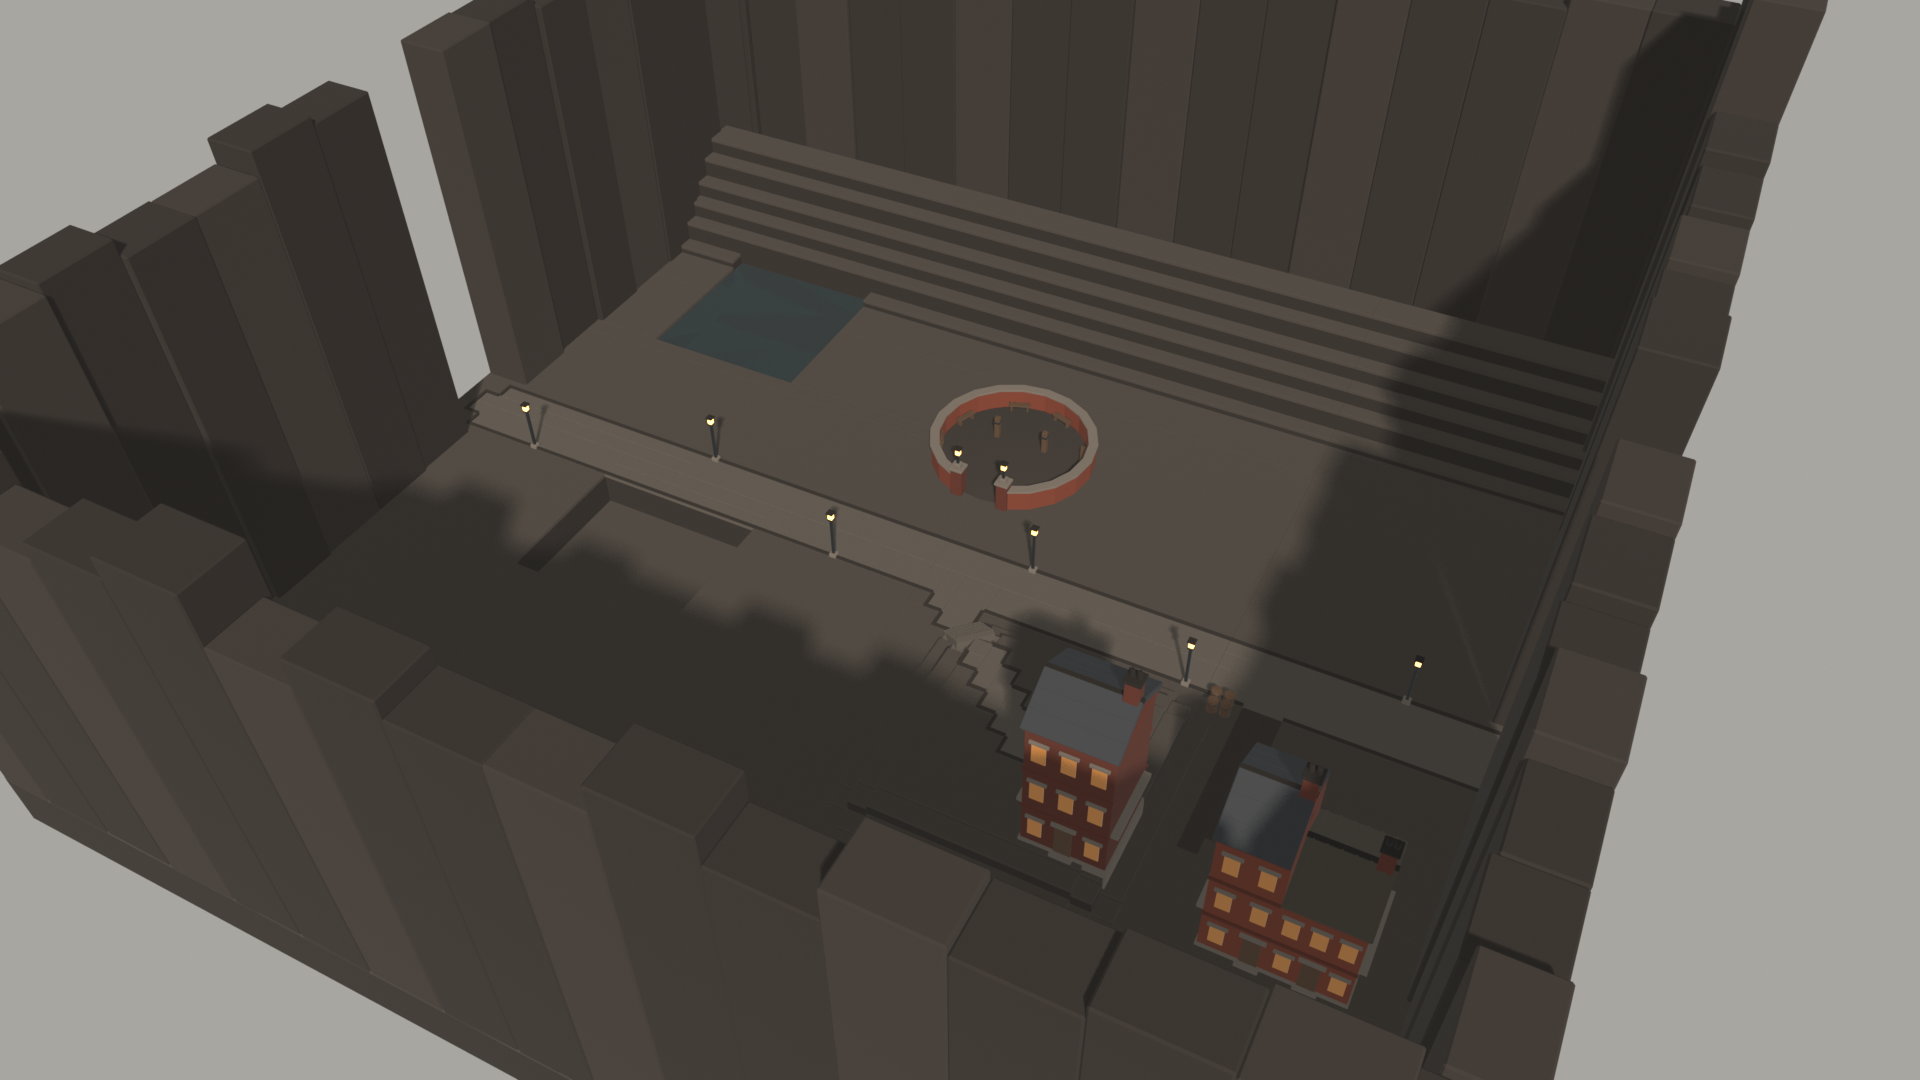
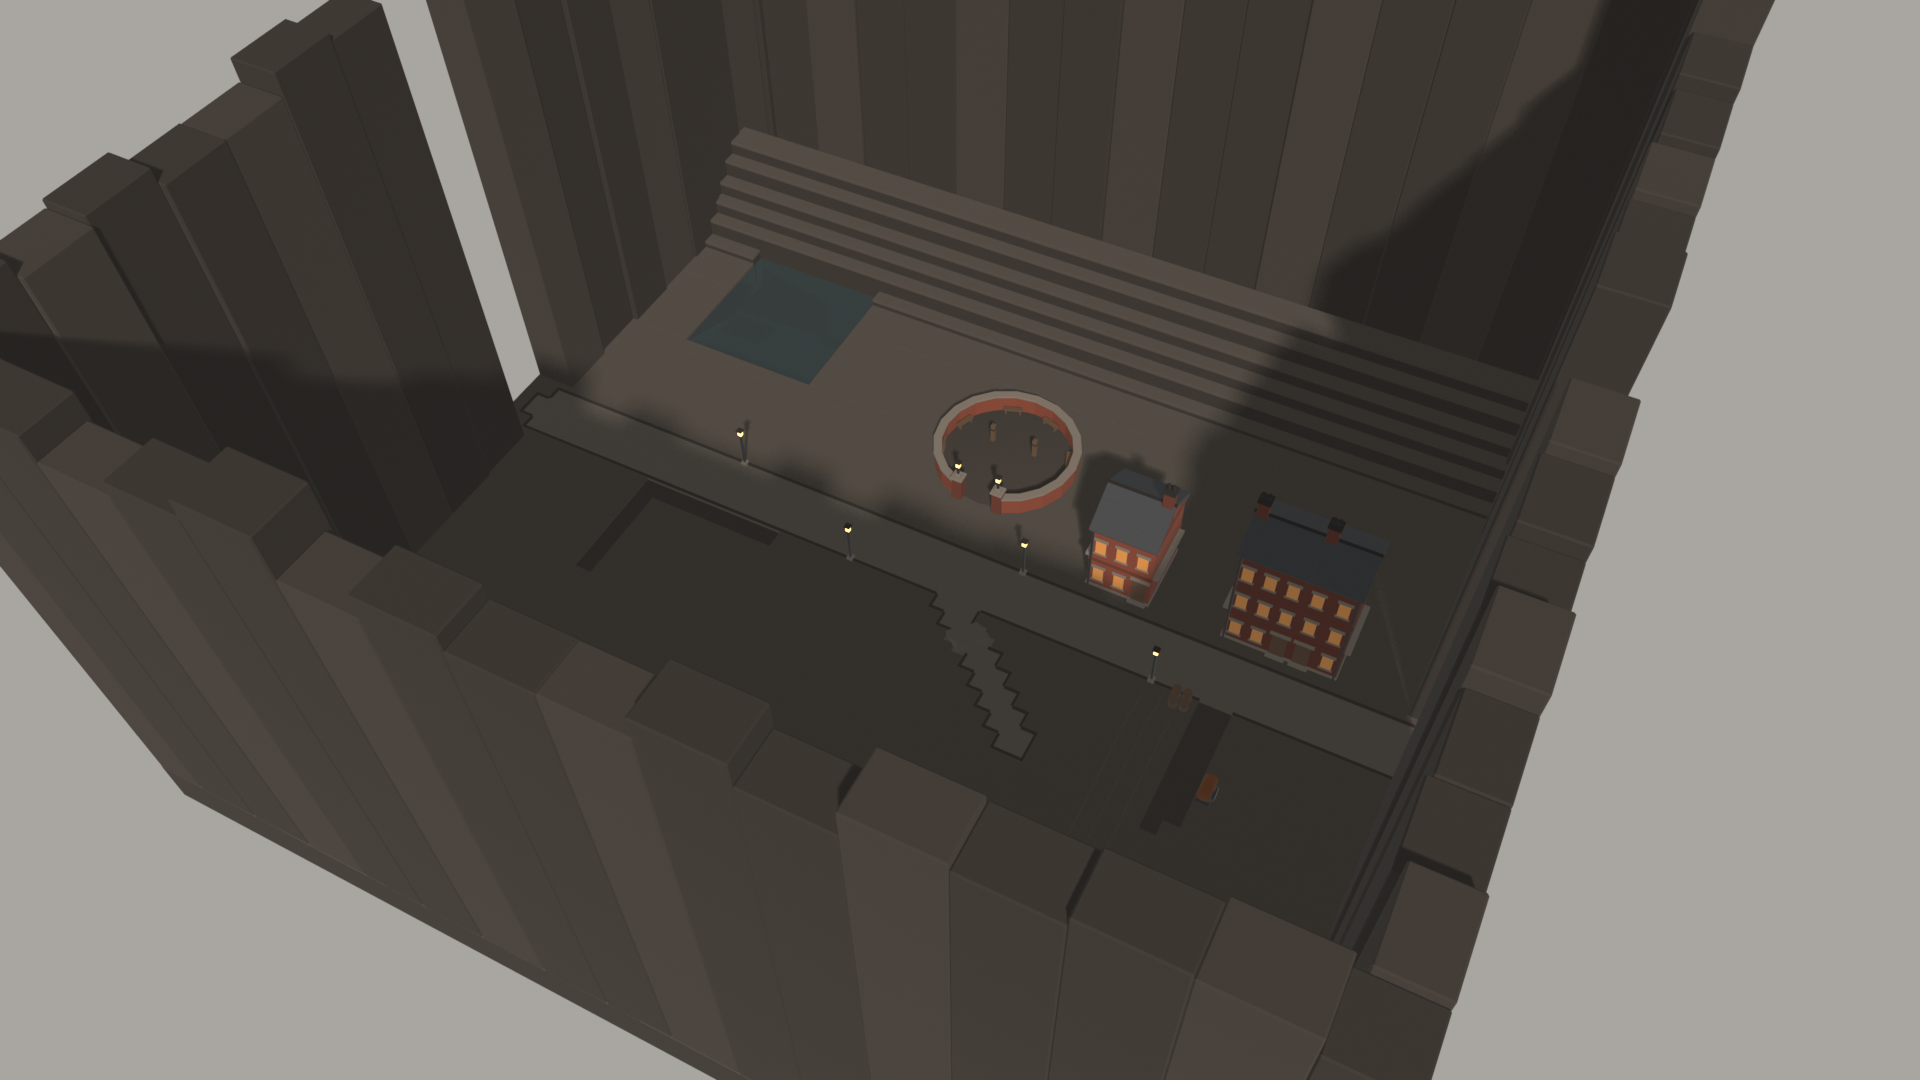
Task 10 fix round 2: 120-stud edge walls, 16-stud wall clearance, warehouse dock step
- placement.EDGE_HEIGHT 120 (PROPOSAL): a fully upgraded climb reaches about 114 studs (Stamina.Max 100 + BO_Endure
  3 x 10; ClimbStart 10 and ClimbMove 12/s, x 0.8 with BO_Climb; ClimbSpeed 9); values cited in the comment.
- placement.WALL_CLEAR 16 (PROPOSAL): buildings (overhangs and stoops included), cover and lamps stay 16+ studs off
  every edge wall's inner face; the landmarks stage refuses a landmark that comes closer. Tested in run.py and
  sampled on the Testbed in blender_check.
- Testbed: the row district moved south of the main road (its old place left room for 2 houses under the rule);
  3 houses again, now with a Density alley between the terrace and the third.
- stages._stoop builds the steps on level ground too (a warehouse dock's 1.4 drop gets its step); the planner reserves
  exactly the steps the stage builds. blender_check builds a warehouse district through the stage to check it.
- blender_check 99/99, run.py 142/142; Testbed 809 / 12000 parts.

diff --git a/Art/Blender/region_builder/tests/run.py b/Art/Blender/region_builder/tests/run.py
@@ -405,10 +405,11 @@ def test_merge():
 
 # ------------------------------------------------------------------ placement (the style kits' planners; Task 10)
 def _flat_district(raw, style, D, poly=None, storeys=(2, 3)):
-    """The Testbed reduced to a flat plane, the main road and one district (default: a 220-stud south frontage)."""
+    """The Testbed reduced to a flat plane, the main road and one district (default: a 192-stud south frontage,
+    inside the walls' 16-stud clearance)."""
     L = copy.deepcopy(raw)
     L["Heights"] = [{"Kind": "plane", "Y": 4}]
-    L["Districts"] = [{"Id": "long", "Poly": poly or [[-110, -60], [110, -60], [110, -12], [-110, -12]],
+    L["Districts"] = [{"Id": "long", "Poly": poly or [[-96, -60], [96, -60], [96, -12], [-96, -12]],
                        "Style": style, "Density": D, "Storeys": list(storeys)}]
     L["Routes"] = [r for r in L["Routes"] if r["Id"] == "main"]
     L["Landmarks"] = []
@@ -441,9 +442,11 @@ def test_placement():
     G = HF.sample(L, cell=4)
     plan = PL.plan_buildings(L, G)
     got = sorted((b["id"], b["x"], b["z"], round(b["theta"], 4), b["w"], b["d"], b["storeys"], b["party"]) for b in plan)
-    check("the Testbed plan: 3 houses where they stood before the move",
-          got == [("row_0", -56.0, -50.5, 3.1416, 16, 17, 3, ""), ("row_1", -88.0, -51.5, 3.1416, 12, 19, 3, "R"),
-                  ("row_2", -101.0, -51.5, 3.1416, 14, 19, 2, "L")], got)
+    # (fix round 2: the row district moved south of the main road; at its old place the 16-stud wall clearance left
+    # room for only 2 houses. A terrace of 2, a Density alley of 19 studs, then 1 house; all face the road, north.)
+    check("the Testbed plan: 3 houses facing the main road",
+          got == [("row_0", -92.0, 20.5, 0.0, 12, 17, 3, "R"), ("row_1", -78.0, 20.5, 0.0, 16, 17, 3, "L"),
+                  ("row_2", -43.0, 21.5, 0.0, 16, 19, 2, "")], got)
     check("plans are deterministic", [b["seed"] for b in PL.plan_buildings(L, G)] == [b["seed"] for b in plan])
 
     # every style on a long flat frontage: coverage rises with Density, alleys >= 4, <= 3 in a row, no overlaps,
@@ -461,7 +464,7 @@ def test_placement():
                 cov.append(0.0)
                 continue
             rows, gaps = _row(p)
-            cov.append(sum(b["w"] for b in p) / 220)
+            cov.append(sum(b["w"] for b in p) / 192)
             ok_gap &= all(abs(g) < 1e-6 or g >= PL.ALLEY - 1e-6 for g in gaps)
             run_ = 1
             for g in gaps:
@@ -480,8 +483,8 @@ def test_placement():
         check(f"{style}: plans are deterministic", ok_det)
     Ls = _flat_district(raw, "railtown.house", 1.0)
     p = PL.plan_buildings(Ls, HF.sample(Ls, cell=4))
-    check("houses at Density 1 cover most of a clear frontage", sum(b["w"] for b in p) / 220 > 0.8,
-          sum(b["w"] for b in p) / 220)
+    check("houses at Density 1 cover most of a clear frontage", sum(b["w"] for b in p) / 192 > 0.8,
+          sum(b["w"] for b in p) / 192)
 
     # a diagonal frontage: the buildings turn to face out of it (its outward normal), toward the road
     poly = [[-110, -80], [-40, -10], [-20, -30], [-90, -100]]
@@ -509,6 +512,38 @@ def test_placement():
                     not tops and floor + step[0] - ground <= 1 + 1e-9)
     check("stoop risers are 1 stud or less, the top one included", ok)
     check("no door, no stoop", PL.stoop_tops(None, 10, 4) == [])
+
+    # the edge walls: 120 studs (fully upgraded climbers), and nothing within WALL_CLEAR of their inner faces
+    check("edge walls stand 120 studs over the ground (PROPOSAL)", PL.EDGE_HEIGHT >= 120, PL.EDGE_HEIGHT)
+    check("the wall-clear rect is EDGE_BAND + WALL_CLEAR (28) in from the Testbed's edge",
+          PL.wall_clear_rect(L) == (-100, -100, 100, 100), PL.wall_clear_rect(L))
+    x0, z0, x1, z1 = PL.wall_clear_rect(L)
+
+    def within(q):
+        return all(x0 - 1e-9 <= x <= x1 + 1e-9 and z0 - 1e-9 <= z <= z1 + 1e-9 for x, z in q)
+    Gt = HF.sample(L, cell=4)
+    pt = PL.plan_buildings(L, Gt)
+    props = PL.plan_props(L, Gt, pt)
+    check("Testbed: buildings (with overhangs and stoops) and props keep 16+ studs off the walls' inner faces",
+          all(within(b["clear"]) for b in pt) and all(within(PL._quad(p["x"], p["z"], p["theta"], (-3, -3, 3, 3)))
+                                                     for p in props), [(b["id"], b["clear"]) for b in pt])
+    wide = _flat_district(raw, "railtown.house", 1.0, poly=[[-128, -60], [128, -60], [128, -12], [-128, -12]])
+    Gw = HF.sample(wide, cell=4)
+    pw = PL.plan_buildings(wide, Gw)
+    check("a district reaching the footprint's edge builds only 16+ studs clear of the walls",
+          pw and all(within(b["clear"]) for b in pw) and min(min(x for x, _ in b["clear"]) for b in pw) >= x0 - 1e-9,
+          [(round(min(x for x, _ in b["clear"]), 1), round(max(x for x, _ in b["clear"]), 1)) for b in pw])
+    check("cover and lamps keep 16+ studs off the walls too",
+          all(within(PL._quad(p["x"], p["z"], p["theta"], (-3, -3, 3, 3))) for p in PL.plan_props(wide, Gw, pw)))
+    near = copy.deepcopy(raw)
+    near["Landmarks"].append({"Id": "nearwall", "Kind": "railtown.market_stall", "At": [110, 40], "Yaw": 0})
+    check("a landmark within 16 studs of a wall is caught (the landmarks stage refuses it)",
+          PL.landmarks_too_near_walls(near) == ["nearwall"] and PL.landmarks_too_near_walls(L) == [],
+          PL.landmarks_too_near_walls(near))
+    # the warehouse dock: 1.4 over level ground gets a step (the stage builds exactly the planner's stoop_tops)
+    tops = PL.stoop_tops((1.4, 3.6), 4, 4)
+    check("a warehouse dock on level ground gets one step, both risers 0.7", [round(t, 3) for t in tops] == [4.7],
+          tops)
 
     # edges: the EdgeGaps open the band and nothing else does
     blocks = PL.plan_edges(L)

diff --git a/Art/Blender/region_builder/tests/blender_check.py b/Art/Blender/region_builder/tests/blender_check.py
@@ -566,7 +566,7 @@ def kit_main():
     # inward profiles every 2 studs round the perimeter (the corner squares excluded: the other side's profiles cover
     # their faces): h(t) = the highest edge top at inset t. Each profile must be covered from the footprint edge to one
     # inner face, every covered inset within 1 stud of the crest (no tread to rest on), and the inner face at least
-    # EDGE_HEIGHT (80, PROPOSAL: the owner's Lindenmoor rule) over the highest ground in the 4 studs beside it
+    # EDGE_HEIGHT (120, PROPOSAL: the owner's Lindenmoor rule) over the highest ground in the 4 studs beside it
     sides = {"N": ((1, 0), (0, 1), (0, -hd), hw), "S": ((1, 0), (0, -1), (0, hd), hw),
              "W": ((0, 1), (1, 0), (-hw, 0), hd), "E": ((0, 1), (-1, 0), (hw, 0), hd)}
     open_, short, treads, blocked, nprof = [], [], [], [], 0
@@ -603,7 +603,8 @@ def kit_main():
     INFO["edge_profiles"] = nprof
     check("the edge walls close the footprint's edge except at EdgeGaps", eparts and nprof > 400 and not open_,
           open_[:8])
-    check("each edge wall's inner face stands 80+ studs over the ground beside it (PROPOSAL, owner's rule)",
+    check(f"each edge wall's inner face stands {PL.EDGE_HEIGHT}+ studs over the ground beside it (PROPOSAL, "
+          "owner's rule: fully upgraded climbers)",
           not short, short[:6])
     check("no tread on an edge wall's climbable face (nothing more than 1 stud below the crest)", not treads,
           treads[:6])
@@ -616,6 +617,22 @@ def kit_main():
         if b[5] > lo + 1e-6:
             bad.append((o.name, round(b[5], 2), lo))
     check("each edge wall reaches the lowest ground under it", eparts and not bad, bad[:4])
+    # nothing a climber could grab or rest on stands within WALL_CLEAR (16) of a wall's inner face: every part of every
+    # building, landmark, cover cluster and lamp taller than 1 stud, against every wall block (horizontal distance)
+    near = []
+    for g in ("Buildings", "Landmarks", "Cover"):
+        for o in groups.get(g, []):
+            pts = [o.matrix_world @ Vector(c) for c in o.bound_box]
+            if max(p.z for p in pts) - min(p.z for p in pts) <= 1.0:
+                continue
+            ax0, ax1 = min(p.x for p in pts), max(p.x for p in pts)
+            az0, az1 = min(p.y for p in pts), max(p.y for p in pts)
+            for b in boxes:
+                dist = math.hypot(max(b[0] - ax1, ax0 - b[1], 0.0), max(b[2] - az1, az0 - b[3], 0.0))
+                if dist < PL.WALL_CLEAR - 1e-6:
+                    near.append((o.name, round(dist, 2)))
+                    break
+    check(f"no structure within {PL.WALL_CLEAR} studs of an edge wall's inner face (PROPOSAL)", not near, near[:6])
 
     # ---- EdgeGap is consumed: no part, no export row
     check("no part carries an EdgeGap tag", not any("EdgeGap" in tags_of(o) for o in s.objects))
@@ -638,6 +655,38 @@ def kit_main():
     mt = json.load(open(os.path.join(REPO, "Art", "Regions", "Testbed", "materials.json"), encoding="utf-8"))
     used = {o.get("rs_mat") for v in groups.values() for o in v}
     check("full build: every part's material is in materials.json", used <= set(mt), sorted(used - set(mt)))
+
+    # ---- warehouses through the buildings stage (fix round 2): the dock's 1.4 drop gets a step on level ground,
+    # every riser 1 stud or less, and the stage builds exactly the steps the planner reserved
+    import copy
+    wl = copy.deepcopy(layout)
+    wl["Heights"] = [{"Kind": "plane", "Y": 4}]
+    wl["Districts"] = [{"Id": "docks", "Poly": [[-96, -60], [96, -60], [96, -12], [-96, -12]],
+                        "Style": "railtown.warehouse", "Density": 0.8, "Storeys": [2, 4]}]
+    wl["Routes"] = [r for r in wl["Routes"] if r["Id"] == "main"]
+    wl["Landmarks"] = []
+    wg = HF.sample(wl, cell=build.CELL)
+    wplan = PL.plan_buildings(wl, wg)
+    ST.buildings(wl, wg)
+    bpy.context.view_layer.update()
+    whs = [o for o in s.objects if o.get("rs_prefab") == "Warehouse" and not o.parent]
+    bad = []
+    step = kitspec.piece("railtown.warehouse")[3]["step"]
+    for r in whs:
+        x0, y0, x1, y1 = r["rs_body"]
+        lo = PL._ground_stats(wg, r.location.x, r.location.y, r.rotation_euler.z,
+                              PL.front_strip({"step": step}, x1 - x0, y1 - y0))[0]
+        tops = sorted((o.matrix_world.translation.z + o["rs_size"][2] / 2 for o in r.children
+                       if "Stoop" in o.name.split("_")[-1]), reverse=True)
+        want = PL.stoop_tops(step, r.location.z, lo)
+        chain = [r.location.z + step[0]] + tops + [lo]
+        if not tops or len(tops) != len(want) or any(a_ - b_ > 1 + 1e-6 for a_, b_ in zip(chain, chain[1:])):
+            bad.append((r.name, [round(c, 2) for c in chain], len(want)))
+    INFO["warehouses"] = len(whs)
+    check("warehouses: the dock steps down to level ground in risers of 1 stud or less, as planned",
+          len(whs) >= 2 and len(whs) == len(wplan) and not bad, (len(whs), len(wplan), bad[:3]))
+    bpy.ops.wm.revert_mainfile()
+    s = bpy.context.scene
 
     # ---- the whole kit: every style and landmark builds, each style under 150 parts (gallery, then revert)
     gal = ST.kit_gallery(layout)

diff --git a/Art/Blender/region_builder/placement.py b/Art/Blender/region_builder/placement.py
@@ -38,11 +38,24 @@ STEP_TREAD = 1.2  # studs: a stoop step's tread (risers are 1 stud or less)
 COVER_EVERY = 20  # PROPOSAL (brief): studs of quiet route, or of built frontage (back yards), per cover cluster
 LAMP_EVERY = 40  # PROPOSAL: studs of public or road route per street lamp, sides alternating
 EDGE_BAND = 12  # PROPOSAL: the edge ridges' depth in from the footprint's edge
-# PROPOSAL, the owner's Lindenmoor rule (natural edges, no invisible walls; same as Lindenmoor's crag): every edge
-# ridge shows a SHEER inner face at least EDGE_HEIGHT studs over the ground beside it, with no tread on that face, so a
-# full stamina bar can't climb out (TuningConfig.Parkour: ClimbSpeed 9 studs/s, ClimbMove 12 stamina/s). This
-# supersedes the Task 10 brief's "at least 24 studs" (coordinator, fix round 1).
-EDGE_HEIGHT = 80
+# PROPOSAL, the owner's Lindenmoor rule (natural edges, no invisible walls; Lindenmoor's crag stands about 115 over its
+# ridges): every edge wall shows a SHEER inner face at least EDGE_HEIGHT studs over the ground beside it, with no tread
+# on that face, so that not even a fully upgraded climber gets out. This supersedes the Task 10 brief's "at least 24
+# studs" (coordinator, fix rounds 1-2). The reach of a full climb, from the game's numbers:
+#   stamina      TuningConfig.Stamina.Max 100 (TuningConfig.lua:10) + BO_Endure +10 max stamina x 3 ranks
+#                (SkillTree.lua:82) = 130;
+#   climb cost   Parkour.ClimbStart 10 to grab, ClimbMove 3 per ClimbTickEvery 0.25 s = 12/s while moving
+#                (TuningConfig.lua:197, 202, 204), both x 0.8 with BO_Climb "Climber" (ParkourCost -20%,
+#                SkillTree.lua:83);
+#   climb speed  Parkour.ClimbSpeed 9 studs/s (TuningConfig.lua:199).
+#   Base: (100 - 10) / 12 x 9 = 67.5 studs; fully upgraded: (130 - 8) / 9.6 x 9 = 114.4 studs above the grab.
+# The grab itself comes from a jump, a few studs up, so 120 leaves little margin: raise it if jump or stamina grow.
+EDGE_HEIGHT = 120
+# PROPOSAL: every structure (building, landmark, cover cluster, lamp: anything a climber could grab or rest on) keeps
+# this far from any edge wall's inner face, so nothing within ClimbReach 5 (TuningConfig.lua:205) plus a running jump
+# of the wall lets a climber start higher or rest part way up. The wall's inner face is at most EDGE_BAND in from the
+# footprint's edge, so structures stay EDGE_BAND + WALL_CLEAR in (_Site.inner, wall_clear_rect).
+WALL_CLEAR = 16
 EDGE_SEG = 16  # PROPOSAL: the longest ridge block along an edge
 STREET_KINDS = ("public", "quiet", "road")  # the routes a building may front
 
@@ -139,7 +152,7 @@ class _Site:
         self.boxes = [m for m in layout["Markers"] if "Box" in m and m["Tag"] not in schema.BUILDER_TAGS
                       and m["Tag"] != "RenseiArea"]
         fw, fd = layout["Footprint"]
-        self.inner = (-fw / 2 + EDGE_BAND, -fd / 2 + EDGE_BAND, fw / 2 - EDGE_BAND, fd / 2 - EDGE_BAND)
+        self.inner = wall_clear_rect(layout)
         self.landmarks = []
         for lm in layout["Landmarks"]:
             _, _, what, spec = kitspec.piece(lm["Kind"])
@@ -168,6 +181,28 @@ class _Site:
     def free(self, q, skip=()):
         return not any(_quads_overlap(q, lq) for lq in self.landmarks) and \
             not any(_quads_overlap(q, tq) for tq, g in self.taken if g not in skip)
+
+
+def wall_clear_rect(layout):
+    """[x0, z0, x1, z1]: where structures may stand, WALL_CLEAR studs clear of every edge wall's inner face."""
+    fw, fd = layout["Footprint"]
+    m = EDGE_BAND + WALL_CLEAR
+    return (-fw / 2 + m, -fd / 2 + m, fw / 2 - m, fd / 2 - m)
+
+
+def landmarks_too_near_walls(layout):
+    """The Ids of landmarks whose footprint (kitspec foot, at At turned to -Yaw) comes within WALL_CLEAR of an edge
+    wall's inner face. The landmarks stage refuses to build a layout with any."""
+    x0, z0, x1, z1 = wall_clear_rect(layout)
+    out = []
+    for lm in layout["Landmarks"]:
+        _, _, what, spec = kitspec.piece(lm["Kind"])
+        if what != "landmark":
+            continue
+        q = _quad(lm["At"][0], lm["At"][1], -math.radians(lm.get("Yaw", 0)), spec["foot"])
+        if not all(x0 - 1e-9 <= x <= x1 + 1e-9 and z0 - 1e-9 <= z <= z1 + 1e-9 for x, z in q):
+            out.append(lm["Id"])
+    return out
 
 
 def frontages(layout, district):
@@ -304,7 +339,7 @@ def _place(site, grid, spec, dist, key, n, frame, theta, pos, w, depth, reach, r
     flo, _, fwet = _ground_stats(grid, x, z, theta, front_strip(spec, w, depth))
     if wet or fwet:
         return None
-    nsteps = len(stoop_tops(spec.get("step"), hi, min(flo, lo)))
+    nsteps = len(stoop_tops(spec.get("step"), hi, flo))  # exactly the steps stages._stoop builds
     q = _quad(x, z, theta, (-w / 2 - OVERHANG, -depth / 2 - reach - nsteps * STEP_TREAD, w / 2 + OVERHANG,
                             depth / 2 + OVERHANG))
     if not (site.routes_clear(q, CLEAR) and site.markers_clear(q, CLEAR) and site.in_bounds(q)):

diff --git a/Art/Blender/region_builder/stages.py b/Art/Blender/region_builder/stages.py
@@ -484,14 +484,13 @@ def _stoop(root, grid, w, d, step):
     floor = root.location.z
     lo, _, _ = _ground_stats(grid, root.location.x, root.location.y, root.rotation_euler.z,
                              PL.front_strip({"step": step}, w, d))
-    if floor - lo <= 0.05:
-        return 0
-    base = lo - 0.5 - floor  # local: the stoop stands on a base below the street
+    tops = PL.stoop_tops(step, floor, lo)  # the same call the planner reserves room with
+    base = min(lo, floor) - 0.5 - floor  # local: the stoop stands on a base below the street
     n = 0
-    if sd > 0:
+    if sd > 0 and floor - lo > 0.05:  # the door step (or dock) stands over lower ground: fill under it
         kits.railtown.pb(root, "StepFooting", (sw, sd, -base), (dx, -d / 2 - sd / 2, base / 2), "stone", bevel=0.06)
         n += 1
-    for j, top in enumerate(PL.stoop_tops(step, floor, lo), 1):
+    for j, top in enumerate(tops, 1):  # also on level ground, when the door step itself is more than 1 stud high
         t = top - floor
         kits.railtown.pb(root, f"Stoop{j}", (4.6, STEP_TREAD + 0.05, t - base),
                          (dx, -d / 2 - sd - (j - 0.5) * STEP_TREAD, (t + base) / 2), "stone", bevel=0.06)
@@ -523,6 +522,10 @@ def landmarks(layout, grid):
     """Group Landmarks: each landmark's kit function, its prefab at At turned to its Yaw (front = local -y = the
     Roblox LookVector), settled on the ground; then the region kit's underworks tunnel sections along every under
     route, about 16 studs each. Returns the part count."""
+    near = PL.landmarks_too_near_walls(layout)
+    if near:
+        raise ValueError(f"landmark(s) {', '.join(near)} come within {PL.WALL_CLEAR} studs of an edge wall's inner face "
+                         f"(placement.WALL_CLEAR: nothing a climber can grab or rest on near the walls); move them in")
     kits.bind(materials.palette(layout))
     c = clear_group(layout, "Landmarks")
     n = 0
